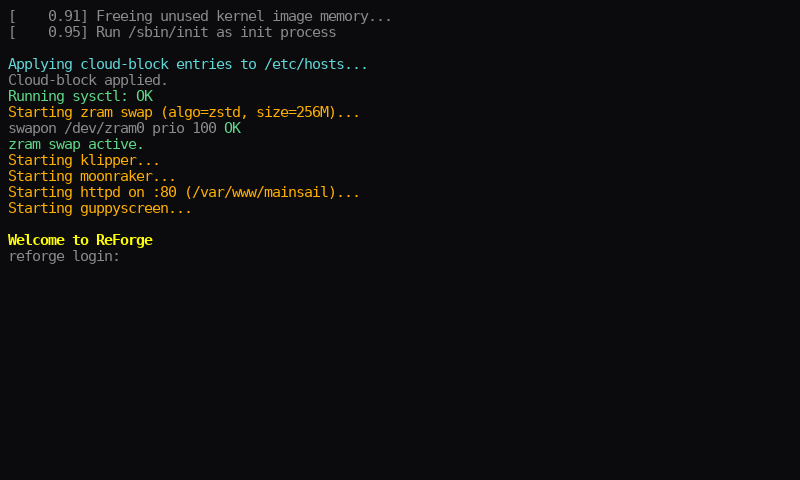
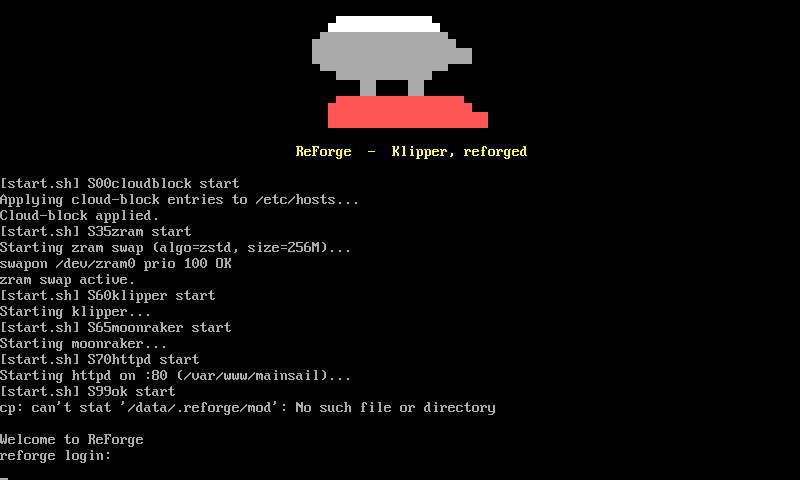
screenshots: real fbcon captures (boot splash + LIVE + console) via shots-reforge
Replaces the rasterized banner renders with genuine 800x480 framebuffer-console
screendumps from qemu. shots-reforge.sh injects the working-tree reforge-banner,
boots the virt kernel with virtio-gpu (/dev/fb0 -> fbcon -> tty0), paints the
banner / drives the real boot chain on the console, and screendumps the live
fbcon. make shots-reforge.

Banner reworked to be framebuffer-console-faithful: CP437-only glyphs (block /
half-block / single+double box — the quadrant blocks and em-dash the console font
lacks are gone, so nothing renders as a missing-glyph box), and it self-centres to
the console width (pty size for SSH, fb width/8 on the panel) so it's centred on
the real 800x480 screen. The 16-color fbcon maps the fire palette to yellow->red.

Regenerated screenshots: bootsplash, bootsplash-live (cyan LIVE badge), and the
boot console — the console is a real chain capture showing zram swap ACTIVE
(virt kernel carries zram built-in; kernel printk quieted to loglevel=3). Drops
render-banner.sh / render-screen.py.

diff --git a/docs/screenshots/README.md b/docs/screenshots/README.md
@@ -1,11 +1,11 @@
 # Screenshots
 
-GUI renders are captured from `qemu-system-arm` with `/dev/fb0` pinned to the printer's exact
-panel (**800×480, 32 bpp**), via the QEMU monitor `screendump` (see
-`tests/qemu-harness/README.md`) — **pixel-identical to the real 4.3" screen**. The console
-images are rasterized onto the same 800×480 panel (8×16 fbcon cell) by
-`tests/qemu-harness/render-banner.sh` / `render-screen.py`, so they match what the framebuffer
-console actually shows.
+All images are captured from `qemu-system-arm` with `/dev/fb0` pinned to the printer's exact
+panel (**800×480, 32 bpp**), via the QEMU monitor `screendump` — **pixel-identical to the real
+4.3" screen**. The boot splash + console are real framebuffer-console captures (16-color VGA/CP437
+fbcon, not rasterized approximations) produced by `tests/qemu-harness/shots-reforge.sh`
+(`make shots-reforge`), which injects the working-tree banner, boots the virt kernel with
+virtio-gpu, and screendumps the live fbcon.
 
 ## Bootsplash (fire/ember "ReForge")
 
@@ -14,9 +14,10 @@ console actually shows.
 The fire/ember banner from `board/reforge/rootfs-overlay/usr/bin/reforge-banner` — shown on the
 boot console (via `reforge-boot`) and on interactive login (`/etc/profile.d`). Block-glyph
 REFORGE wordmark in a fire gradient, shaded-block flames, a steel anvil over the forge base,
-tagline *"ReForge — Klipper, reforged"*. Drawn with VGA/CP437 console glyphs (`█ ▓ ▒ ░ ▟ ▙ ▛ ▜`,
-double-box) so it renders on the real panel; 256-color ANSI, degrades to plain text on dumb
-terminals. Sized to fit the 30-row console without scrolling.
+tagline *"ReForge - Klipper, reforged"*. Drawn with VGA/CP437 console glyphs only (`█ ▓ ▒ ░ ▀ ▄`,
+single/double box) so every glyph exists in the framebuffer console font; 256-color ANSI that the
+16-color fbcon maps to the fire palette (yellow→red), degrading to plain text on dumb terminals.
+Self-centres to the console width and fits the 30-row console without scrolling.
 
 ### LIVE mode
 
